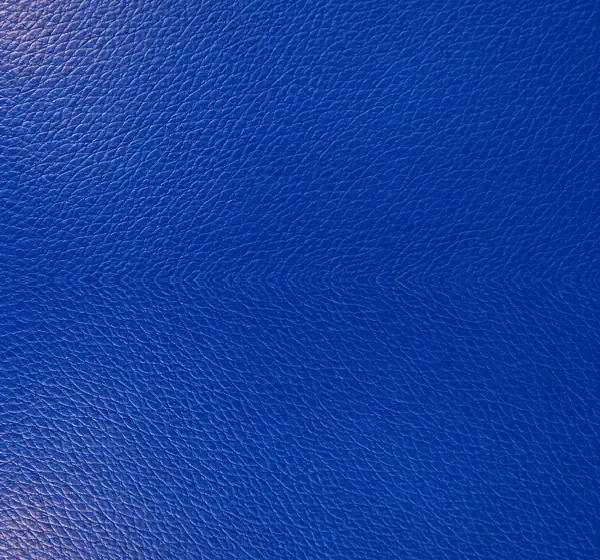
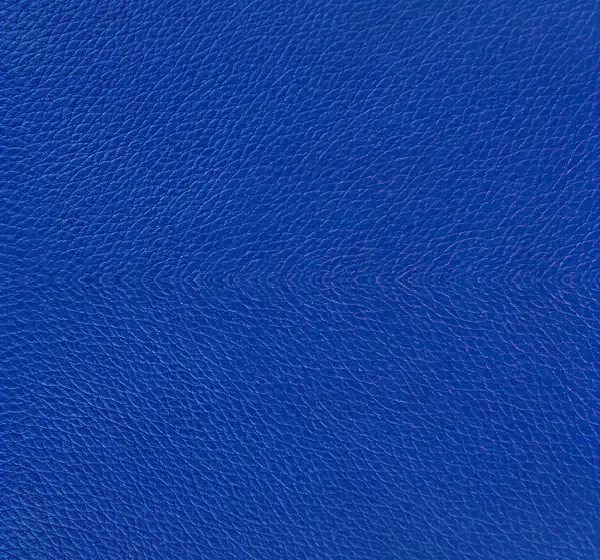
fix(cptel): couro sem faixas e com contraste AA; braço do refletor sem corte

diff --git a/extra-pages/cptel-pv01/index.html b/extra-pages/cptel-pv01/index.html
@@ -38,7 +38,7 @@ a{color:inherit}
 .txt{max-width:640px}
 section{position:relative;padding:72px 0;overflow:hidden}
 section.deep{background:var(--cream-deep) url(images/tx-01-papel.webp) repeat}
-section.leather{background:var(--ink) url(images/tx-02-couro.webp) center/600px repeat;color:var(--cream)}
+section.leather{background:linear-gradient(rgba(20,40,74,.55),rgba(20,40,74,.55)),url(images/tx-02-couro.webp) center/600px repeat,var(--ink);color:var(--cream)}
 .glow::before{content:"";position:absolute;left:-10%;top:-20%;width:70%;height:80%;background:radial-gradient(ellipse at top left,rgba(226,169,59,.28),transparent 65%);pointer-events:none}
 .wrap{position:relative;z-index:1}
 h1,h2,h3,.serif{font-family:var(--serif);font-weight:500;line-height:1.05}
@@ -78,7 +78,7 @@ em,.it{font-family:var(--serif);font-style:italic;font-weight:500}
 .hero .cta{margin:28px 0 24px}
 .hero-img{position:relative;display:flex;justify-content:center}
 .hero-img .chair{width:min(100%,520px);position:relative;z-index:1;filter:drop-shadow(0 24px 24px rgba(20,40,74,.2))}
-.hero-img .spot{position:absolute;left:-4%;top:-6%;width:46%;z-index:2}
+.hero-img .spot{position:absolute;left:-4%;top:-6%;width:46%;z-index:2;-webkit-mask-image:linear-gradient(225deg,transparent 18%,#000 42%);mask-image:linear-gradient(225deg,transparent 18%,#000 42%)}
 @media(min-width:900px){.hero-grid{grid-template-columns:minmax(0,1.1fr) minmax(0,.9fr)}.hero-img .chair{width:min(115%,620px)}section{padding:112px 0}}
 /* cards numerados */
 .grid4{display:grid;gap:16px;grid-template-columns:1fr}
@@ -123,7 +123,7 @@ em,.it{font-family:var(--serif);font-style:italic;font-weight:500}
 /* bonus */
 .bn{display:grid;gap:16px;margin:32px 0 40px}
 @media(min-width:800px){.bn{grid-template-columns:1fr 1fr}}
-.b{display:flex;gap:16px;align-items:center;background:rgba(251,246,236,.1);border:1px solid rgba(226,169,59,.5);border-radius:var(--r-md);padding:16px}
+.b{display:flex;gap:16px;align-items:center;background:rgba(20,40,74,.68);border:1px solid rgba(226,169,59,.5);border-radius:var(--r-md);padding:16px}
 .b img{width:72px;height:72px;object-fit:contain;flex:none;background:var(--cream);border-radius:var(--r-sm);padding:6px}
 .b p{font-weight:500}
 .leather .raios{position:absolute;inset:0;background:url(images/ov-01-raios.webp) center/cover;mix-blend-mode:screen;opacity:.3;pointer-events:none}
@@ -144,7 +144,7 @@ em,.it{font-family:var(--serif);font-style:italic;font-weight:500}
 /* garantia */
 .gar{display:grid;gap:32px;align-items:center;justify-items:center;text-align:center}
 @media(min-width:800px){.gar{grid-template-columns:auto 1fr auto;text-align:left;justify-items:start}}
-.selo{width:120px;height:120px;border-radius:50%;background:var(--ink) url(images/tx-02-couro.webp) center/600px repeat;border:3px solid var(--gold);display:flex;flex-direction:column;align-items:center;justify-content:center;color:var(--cream);box-shadow:var(--shadow-soft)}
+.selo{width:120px;height:120px;border-radius:50%;background:linear-gradient(rgba(20,40,74,.55),rgba(20,40,74,.55)),url(images/tx-02-couro.webp) center/600px repeat,var(--ink);border:3px solid var(--gold);display:flex;flex-direction:column;align-items:center;justify-content:center;color:var(--cream);box-shadow:var(--shadow-soft)}
 .selo b{font:600 28px/1 var(--serif)}
 .selo span{font:500 9px/1.2 var(--mono);letter-spacing:.2em;text-transform:uppercase;color:var(--gold);margin-top:4px}
 .gar img{width:120px}

diff --git a/extra-pages/cptel-pv02/index.html b/extra-pages/cptel-pv02/index.html
@@ -40,7 +40,7 @@ a{color:inherit}
 .txt{max-width:640px}
 section{position:relative;padding:72px 0;overflow:hidden}
 section.deep{background:var(--cream-deep) url(images/tx-01-papel.webp) repeat}
-section.leather{background:var(--ink) url(images/tx-02-couro.webp) center/600px repeat;color:var(--cream)}
+section.leather{background:linear-gradient(rgba(20,40,74,.55),rgba(20,40,74,.55)),url(images/tx-02-couro.webp) center/600px repeat,var(--ink);color:var(--cream)}
 .glow::before{content:"";position:absolute;left:-10%;top:-20%;width:70%;height:80%;background:radial-gradient(ellipse at top left,rgba(226,169,59,.28),transparent 65%);pointer-events:none}
 .wrap{position:relative;z-index:1}
 h1,h2,h3,.serif{font-family:var(--serif);font-weight:500;line-height:1.05}
@@ -137,7 +137,7 @@ em,.it{font-family:var(--serif);font-style:italic;font-weight:500}
 /* bonus */
 .bn{display:grid;gap:16px;margin:32px 0 40px}
 @media(min-width:800px){.bn{grid-template-columns:1fr 1fr}}
-.b{display:flex;gap:16px;align-items:center;background:rgba(251,246,236,.1);border:1px solid rgba(226,169,59,.5);border-radius:var(--r-md);padding:16px}
+.b{display:flex;gap:16px;align-items:center;background:rgba(20,40,74,.68);border:1px solid rgba(226,169,59,.5);border-radius:var(--r-md);padding:16px}
 .b img{width:72px;height:72px;object-fit:contain;flex:none;background:var(--cream);border-radius:var(--r-sm);padding:6px}
 .b p{font-weight:500}
 .leather .raios{position:absolute;inset:0;background:url(images/ov-01-raios.webp) center/cover;mix-blend-mode:screen;opacity:.3;pointer-events:none}
@@ -158,7 +158,7 @@ em,.it{font-family:var(--serif);font-style:italic;font-weight:500}
 /* garantia */
 .gar{display:grid;gap:32px;align-items:center;justify-items:center;text-align:center}
 @media(min-width:800px){.gar{grid-template-columns:auto 1fr auto;text-align:left;justify-items:start}}
-.selo{width:120px;height:120px;border-radius:50%;background:var(--ink) url(images/tx-02-couro.webp) center/600px repeat;border:3px solid var(--gold);display:flex;flex-direction:column;align-items:center;justify-content:center;color:var(--cream);box-shadow:var(--shadow-soft)}
+.selo{width:120px;height:120px;border-radius:50%;background:linear-gradient(rgba(20,40,74,.55),rgba(20,40,74,.55)),url(images/tx-02-couro.webp) center/600px repeat,var(--ink);border:3px solid var(--gold);display:flex;flex-direction:column;align-items:center;justify-content:center;color:var(--cream);box-shadow:var(--shadow-soft)}
 .selo b{font:600 28px/1 var(--serif)}
 .selo span{font:500 9px/1.2 var(--mono);letter-spacing:.2em;text-transform:uppercase;color:var(--gold);margin-top:4px}
 .gar img{width:120px}

diff --git a/docs/ai/cptel.md b/docs/ai/cptel.md
@@ -9,5 +9,6 @@
 - O acento circunflexo alto ("ê") é desenho da Cormorant Garamond, não erro.
 - PV02 (`extra-pages/cptel-pv02/`, 25/11): cópia da PV01 com primeira dobra nova. `<picture>` hero-mobile.webp (9:16, até 899px) / hero-desktop.webp (16:9), logo-cptel.webp transparente dentro do `<h1>` (alt = nome do curso), barra de lote 78%, chip, 6 resultados em 2 colunas, CTA `#oferta`. `noindex` (variante da PV01, evita duplicado). Slug do tracking = cptel-pv02.
 - Rodapé sem CNPJ (Chefe, 25/11).
+- Couro: `tx-02-couro.webp` com luz uniforme (sem faixa a cada 600px) + véu ink .55; cartões de bônus rgba ink .68 (AA). Refletor do hero da PV01 com `mask-image` para o braço sumir antes da borda (Chefe, 25/11).
 - Enquanto `CHECKOUT_URL` começar com `#[`, os botões de checkout continuam em `#oferta` (não ficam mortos).
 - Grade: aulas 01–05 seg–sex 20h; aula 06 domingo 19h30; gravações das 01–05 até 18h do domingo (FAQ).
